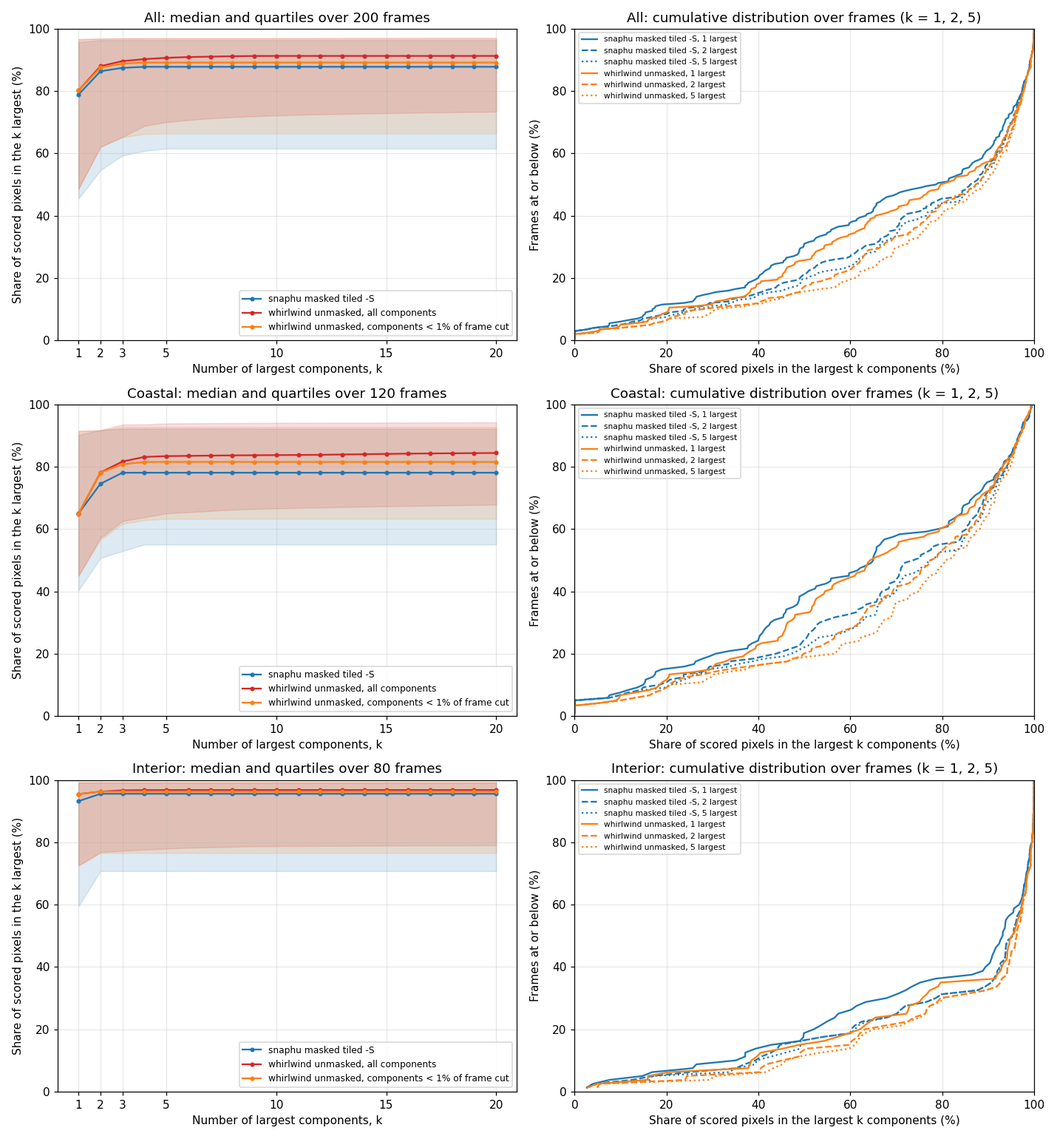
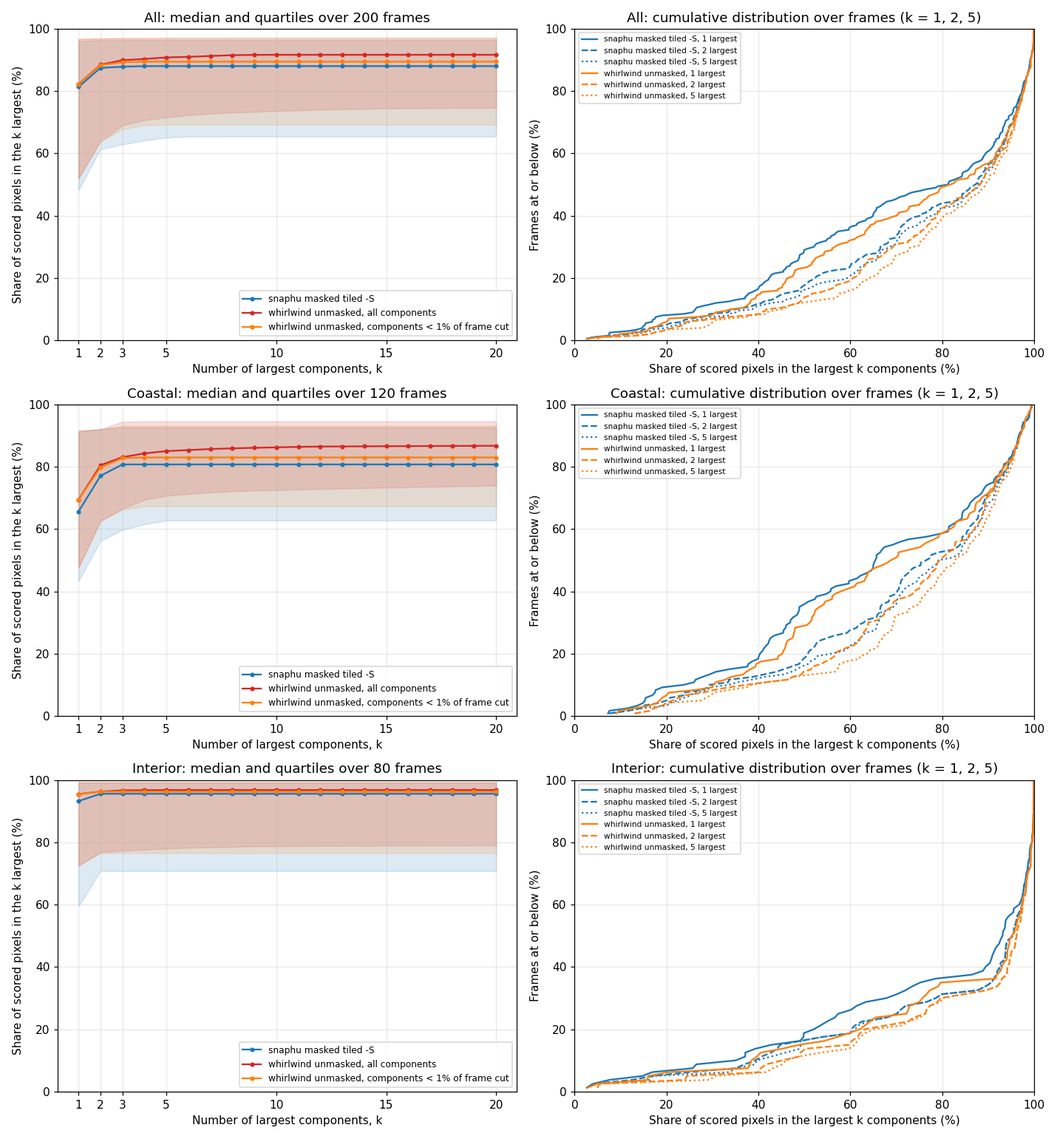
whirlwindUnwrapping: replacement frames (all 200 scored), 20-worst table, terms section, clarity fixes
Fixes the agreeing-pixel error share in Section 3.7 (0.32%, was misreported as 0.16%).

diff --git a/Documents/whirlwindUnwrapping.md b/Documents/whirlwindUnwrapping.md
@@ -1,7 +1,9 @@
 # Whirlwind as an alternative to snaphu: speed and accuracy on the 200-frame synthetic test
 
 **Status: draft, 2026-11-16.** Uses the same 200 synthetic Antarctica40 frames, inputs and scoring as
-[snaphuTilingMasking.md](snaphuTilingMasking.md) (Sections 2.4 and 3.5 there).
+[snaphuTilingMasking.md](snaphuTilingMasking.md) (Sections 2.4 and 3.5 there), with one change: 7 coastal frames
+that had no connected components in at least one snaphu run, so could not be scored, were replaced by 7 new
+coastal frames (`frames4.csv`). Every frame is now scored in every run.
 
 ## Summary
 
@@ -16,26 +18,27 @@ the same residue mask that snaphu `-S` uses. Unless stated otherwise, "whirlwind
 We compared it with snaphu in two configurations: masked tiled `-S`, which is the recommended configuration from the
 snaphu study, and unmasked untiled, which is used in production now.
 
-- **Speed.** Whirlwind takes 8.7 h of wall time in total, compared with 10.4 h for snaphu `-S` and 74.3 h for
-  untiled snaphu. It uses far less CPU: 9.8 h, compared with 31.3 h for `-S`. The median frame is a little slower
-  than `-S` (98 s against 77 s). Whirlwind is about twice as fast on interior frames but about half as fast on
+- **Speed.** Whirlwind takes 9.1 h of wall time in total, compared with 10.9 h for snaphu `-S` and 74.8 h for
+  untiled snaphu. It uses far less CPU: 10.2 h, compared with 32.3 h for `-S`. The median frame is a little slower
+  than `-S` (101 s against 80 s). Whirlwind is about twice as fast on interior frames but about half as fast on
   coastal ones.
 - **Accuracy.** Whirlwind is slightly less accurate than snaphu `-S` on the typical frame. The median share of
-  pixels with the wrong cycle count is 0.085%, against 0.057%. Its mean is lower (1.41% against 1.55%), but only
-  because of one frame where snaphu `-S` fails badly (Section 3.3).
-- **Connected components.** Whirlwind's own output has a median of 30 connected components per frame (maximum
-  254), and most of them are tiny. Each component is scored with its own offset, so this extra freedom flatters
-  the score. For a fair comparison, all whirlwind scores here first cut its components with snaphu's own rule,
+  pixels with the wrong cycle count is 0.086%, against 0.061%. Its mean is lower (1.39% against 1.59%), but only
+  because of one frame where snaphu `-S` fails badly (Sections 3.2 and 3.3).
+- **Connected components.** An unwrapper splits its output into connected components: regions it trusts to be
+  unwrapped consistently, each with an unknown offset relative to the others. Whirlwind's own output has a median
+  of 30 components per frame (maximum 239), and most of them are tiny. Each component is scored with its own
+  offset, so this extra freedom flatters the score. For a fair comparison, all whirlwind scores here first cut its components with snaphu's own rule,
   which keeps only components larger than 1% of the frame. After the cut, both unwrappers have a median of one
   component, and the area held by the largest components is nearly the same (Section 3.4).
-- **Masked whirlwind.** Masking makes whirlwind about 15% slower in total (10.0 h against 8.7 h), unlike snaphu,
-  which masking makes much faster. It makes whirlwind slightly more accurate: the median is 0.072% against
-  0.085%, and masking helps 15 frames and hurts 6. It is still less accurate than snaphu `-S` on the median
+- **Masked whirlwind.** Masking makes whirlwind about 15% slower in total (10.5 h against 9.1 h), unlike snaphu,
+  which masking makes much faster. It makes whirlwind slightly more accurate: the median is 0.081% against
+  0.086%, and masking helps 15 frames and hurts 6. It is still less accurate than snaphu `-S` on the median
   (Section 3.6).
 - **Settings.** No whirlwind option we tried (Goldstein filtering, interpolation, downsampling) fixes its worst
   frames (Section 3.5).
 - **Running both as a check.** The pixels where snaphu `-S` and whirlwind disagree are 1% of the data but hold
-  73% of snaphu's wrong pixels (99% on interior frames). The 22 frames with more than 1% disagreement hold 92% of
+  67% of snaphu's wrong pixels (99% on interior frames). The 24 frames with more than 1% disagreement hold 93% of
   snaphu's wrong pixels. The comparison flags errors but cannot say which unwrapper is right (Section 3.7).
 
 Whirlwind therefore does not replace snaphu `-S` for coastal frames. It is a fast option for interior frames,
@@ -43,11 +46,43 @@ where it is twice as fast and the accuracy difference is a few thousandths of a 
 
 ## 1. Method
 
+### 1.1 The test and its terms
+
+The test uses 200 Antarctic NISAR frames (from the Antarctica40 project) and, for each, a synthetic interferogram
+with a known answer. The truth is the phase predicted from an existing velocity map; noise is added that follows
+the frame's real coherence, at a level calibrated so that the synthetic interferogram is as hard to unwrap as the
+real one. The construction is described in Section 2.4 of [snaphuTilingMasking.md](snaphuTilingMasking.md).
+
+- **Frames.** A frame is named `t<track><A|D>_f<frame>_<second date>`, for example `t022A_f139_20261001` (track 22,
+  ascending, frame 139). **Coastal** frames (120) contain some floating ice or ocean; **interior** frames (80) are
+  entirely grounded ice. Coastal frames are much harder, because ocean and sea ice decorrelate.
+- **Cycle errors.** Unwrapping recovers the full phase from its value modulo 2π. A pixel is **wrong** if the
+  unwrapper has put it on the wrong 2π cycle. An error usually affects a whole region at once, so it costs many
+  pixels.
+- **Residues** are points where the wrapped phase around a 2 x 2 loop of pixels does not add up to zero. Noise
+  creates them, and the unwrapper must pair each with one of opposite sign (or with the frame edge), which is what
+  makes noisy frames slow and hard.
+- **Residue mask.** The mask from the snaphu study: 15 x 15 pixel blocks whose residue density exceeds 0.25 per
+  loop, removed before unwrapping and filled with a smooth phase. It removes mostly open ocean and sea ice.
+  `synth3/none` holds the unmasked inputs and `synth3/mask0.25` the masked ones.
+- **Tiling and `-S`.** snaphu can split a frame into tiles (here 4 x 4) unwrapped in parallel. With `-S` it then
+  re-optimizes the assembled result as a single tile, so that there are no errors along the tile seams. Untiled
+  snaphu runs on a single core.
+- **Connected components** are the regions an unwrapper trusts to be internally consistent. The offset between two
+  components is unknown, so scoring removes each component's own median offset. Pixels in no component are not
+  scored.
+- **Scored set** and **coverage.** The scored set is every pixel that the residue mask keeps and where the
+  truth is present; it is the same for every run, masked or not. Coverage is the share of the scored set that lies in a component.
+
+### 1.2 Runs
+
 | | snaphu untiled | snaphu `-S` | whirlwind |
 |---|---|---|---|
 | Input | unmasked (`synth3/none`) | residue mask 0.25 (`synth3/mask0.25`) | unmasked (`synth3/none`) and masked (`synth3/mask0.25`), two separate runs |
 | Configuration | `BASE_CONF`: SMOOTH, MCF, NCORRLOOKS 139 | 4 x 4 tiles, 200 px overlap, NPROC 16, `-S` | defaults, `--nlooks 139`, 16 rayon threads |
-| Host | petermann / ryder | petermann / ryder | helheim, 10 frames at a time |
+| Host | petermann / ryder | petermann / ryder | helheim, 8 to 10 frames at a time |
+
+### 1.3 Scoring and settings
 
 **Whirlwind options.** Every result except Section 3.5 uses whirlwind's defaults: no Goldstein filtering
 (`--goldstein-alpha` 0), no `--interpolate` and no `--downsample` (factor 1). The command for each run is saved in
@@ -55,37 +90,41 @@ where it is twice as fast and the accuracy difference is a few thousandths of a 
 
 **Scoring.** Scoring is the same as for snaphu (`synthTest.wrongCycles`). A pixel is wrong if its difference
 from the truth, after removing the median offset of its connected component, rounds to a nonzero number of
-cycles. Scoring covers the mask0.25 scored set (the residue mask, and only pixels where the truth is present).
-The same scored set is used for every run.
+cycles. "Wrong" percentages are the share of a frame's scored pixels in a component that are wrong; medians and
+means are then taken over frames.
 
 **Component cut.** Before scoring, whirlwind's components smaller than 1% of the whole frame (lines x samples,
-masked pixels included) are set to 0. This is snaphu's `MINCONNCOMPFRAC 0.01` rule.
+masked pixels included) are removed, so their pixels are not scored. snaphu applies this rule to its own output
+(`MINCONNCOMPFRAC 0.01`); without the cut, whirlwind's many tiny components would each get their own offset and
+flatter its score.
 
-**Worse and better.** A frame counts as substantially worse or better (`synthSummary.worse` / `better`) when the
-error at least doubles or changes by more than 0.5 percentage points. Changes smaller than 0.01 points are
-ignored.
+**Worse and better.** Whirlwind counts as substantially worse on a frame (`synthSummary.worse`) when its error is
+more than double snaphu's or more than 0.5 percentage points higher, and also at least 0.01 points higher, so
+0.000% against 0.001% is not counted. Substantially better is the same rule the other way round.
 
 **Timing caveat.** The snaphu runs were timed on petermann and ryder in the snaphu study. Whirlwind was timed on
-helheim (96 cores) with 10 frames running at once. Whirlwind's median 1-minute load average during a run was 12,
+helheim (96 cores) with 8 to 10 frames running at once. Whirlwind's median 1-minute load average during a run was 12,
 and its peak memory use was 1.1 GB median and 1.8 GB maximum.
 
 ## 2. Speed
 
+Wall time is the elapsed time per frame; CPU time adds up the time of all threads.
+
 | | snaphu untiled | snaphu `-S` (masked) | whirlwind unmasked | whirlwind masked |
 |---|---|---|---|---|
-| Median wall, all | 636 s | 77 s | 98 s | 96 s |
-| Median wall, coastal (120) | 936 s | 98 s | 182 s | 193 s |
+| Median wall, all | 647 s | 80 s | 101 s | 102 s |
+| Median wall, coastal (120) | 955 s | 104 s | 203 s | 230 s |
 | Median wall, interior (80) | 478 s | 53 s | 27 s | 31 s |
-| Total wall, all | 74.3 h | 10.4 h | 8.7 h | 10.0 h |
-| Total CPU, all | 74.3 h | 31.3 h | 9.8 h | 11.1 h |
+| Total wall, all | 74.8 h | 10.9 h | 9.1 h | 10.5 h |
+| Total CPU, all | 74.7 h | 32.3 h | 10.2 h | 11.5 h |
 
 | Whirlwind speedup | vs untiled, median | vs untiled, total | vs `-S`, median | vs `-S`, total |
 |---|---|---|---|---|
-| unmasked, all | 8.7x | 8.5x | 0.9x | 1.2x |
-| unmasked, coastal | 5.5x | 6.0x | 0.6x | 0.7x |
+| unmasked, all | 8.5x | 8.2x | 0.9x | 1.2x |
+| unmasked, coastal | 5.3x | 5.8x | 0.5x | 0.7x |
 | unmasked, interior | 16.3x | 24.2x | 2.0x | 4.5x |
-| masked, all | 8.0x | 7.4x | 0.8x | 1.0x |
-| masked, coastal | 5.4x | 5.2x | 0.5x | 0.6x |
+| masked, all | 7.5x | 7.1x | 0.8x | 1.0x |
+| masked, coastal | 5.1x | 5.0x | 0.5x | 0.6x |
 | masked, interior | 15.8x | 22.3x | 2.0x | 4.1x |
 
 Whirlwind's threads help little: CPU time is only 1.1 times wall time. Unlike snaphu, whirlwind does not get
@@ -95,49 +134,67 @@ faster when the residue-dense areas are masked.
 
 ### 3.1 Summary
 
-Statistics cover the 193 frames where all four runs have at least one component.
+Statistics cover all 200 frames; every run has at least one component on every frame.
 
 | | snaphu untiled | snaphu `-S` (masked) | whirlwind unmasked | whirlwind masked |
 |---|---|---|---|---|
-| Wrong, median, all | 0.059% | 0.057% | 0.085% | 0.072% |
-| Wrong, median, coastal | 0.232% | 0.228% | 0.229% | 0.221% |
+| Wrong, median, all | 0.062% | 0.061% | 0.086% | 0.081% |
+| Wrong, median, coastal | 0.248% | 0.233% | 0.237% | 0.223% |
 | Wrong, median, interior | 0.001% | 0.000% | 0.006% | 0.008% |
-| Wrong, mean, all | 1.64% | 1.55% | 1.41% | 1.26% |
-| Coverage, median, all | 87.2% | 87.8% | 89.2% | 89.5% |
-| Coverage, median, coastal | 78.0% | 78.1% | 81.5% | 82.5% |
+| Wrong, mean, all | 1.68% | 1.59% | 1.39% | 1.24% |
+| Coverage, median, all | 87.6% | 88.0% | 89.4% | 90.0% |
+| Coverage, median, coastal | 80.7% | 80.7% | 83.0% | 83.8% |
+| Whirlwind unmasked substantially worse / better | 50 / 25 | 51 / 23 | | |
+| Whirlwind masked substantially worse / better | 52 / 25 | 52 / 25 | | |
 | Components after the 1% cut, median (max) | | 1 (6) | 1 (7) | 1 (7) |
-| Whirlwind unmasked substantially worse / better | 49 / 22 | 50 / 20 | | |
-| Whirlwind masked substantially worse / better | 51 / 22 | 51 / 22 | | |
+
+The worse / better rows count frames where whirlwind is substantially worse or better than the run at the top of
+the column. On the median frame, whirlwind is slightly less accurate than either snaphu run. On coastal frames the
+medians are nearly equal, and whirlwind covers more of the scored set.
 
 ### 3.2 Why whirlwind is worse more often but has the lower mean
 
-Compared with snaphu `-S`, whirlwind is substantially worse on 50 frames and substantially better on 20 (194
-frames where both runs are scored). Its mean error is nevertheless 0.13 percentage points lower. The two
+Compared with snaphu `-S`, whirlwind is substantially worse on 51 frames and substantially better on 23 (of 200).
+Its mean error is nevertheless 0.20 percentage points lower. The two
 statistics measure different things:
 
-- **The worse/better rule is relative.** Many of the frames counted as worse are worse by tiny amounts. Of the 50
-  worse frames, 20 are worse by less than 0.05 points and 35 by less than 0.5 points; the median is +0.075 points
+- **The worse/better rule is relative.** Many of the frames counted as worse are worse by tiny amounts. Of the 51
+  worse frames, 21 are worse by less than 0.05 points and 36 by less than 0.5 points; the median is +0.073 points
   and the total is +64.9 points.
-- **The better frames are better by more.** The 20 better frames gain a median of 0.49 points each, −88.9 points in
+- **The better frames are better by more.** The 23 better frames gain a median of 1.41 points each, −103.5 points in
   total.
 - **One frame dominates the mean.** On `t022A_f139` snaphu `-S` has 59.1% of pixels wrong and whirlwind 7.8%
-  (Figure 1). That single frame lowers whirlwind's mean by 0.26 points. Without it, whirlwind's mean is 0.13 points
+  (Figure 1). That single frame lowers whirlwind's mean by 0.26 points. Without it, whirlwind's mean is 0.05 points
   *worse* than snaphu `-S`.
 
 The median is therefore the fairer summary, and on the median whirlwind is slightly worse.
 
-These are the frames with the largest differences:
+These are the 20 frames with the largest error for either unwrapper, ranked by the larger of the two. The worse
+of the two is in bold. Snaphu `-S` is worse on 10 of them and whirlwind on 10. Several of the worst frames defeat
+both unwrappers: on `t166A_f139` (both dates), `t104A_f142` and `t058D_f126` both are more than 15% wrong.
 
-| Frame | Class | snaphu `-S` | whirlwind | Difference (points) | Components, `-S` / whirlwind |
+| Frame | Class | Wrong, snaphu `-S` | Wrong, whirlwind | Components, `-S` / whirlwind | Coverage, `-S` / whirlwind |
 |---|---|---|---|---|---|
-| `t022A_f139_20261001` | coastal | 59.12% | 7.77% | −51.34 | 1 / 1 |
-| `t166A_f135_20260824` | interior | 12.50% | 0.02% | −12.48 | 3 / 1 |
-| `t059D_f122_20261004` | coastal | 13.67% | 4.28% | −9.39 | 3 / 4 |
-| `t057D_f127_20260724` | coastal | 3.18% | 0.48% | −2.69 | 1 / 1 |
-| `t138A_f141_20260810` | coastal | 2.34% | 8.44% | +6.10 | 4 / 5 |
-| `t060A_f139_20260817` | coastal | 7.39% | 17.18% | +9.79 | 1 / 2 |
-| `t104A_f142_20260925` | coastal | 22.49% | 32.82% | +10.33 | 3 / 6 |
-| `t010D_f124_20260918` | coastal | 2.36% | 19.23% | +16.87 | 2 / 2 |
+| `t166A_f139_20260719` | coastal | **63.76%** | 63.51% | 3 / 3 | 96.3% / 95.6% |
+| `t022A_f139_20261001` | coastal | **59.12%** | 7.77% | 1 / 1 | 96.7% / 92.2% |
+| `t104A_f142_20260925` | coastal | 22.49% | **32.82%** | 3 / 6 | 74.9% / 78.0% |
+| `t166A_f139_20260917` | coastal | 30.09% | **30.83%** | 2 / 3 | 94.1% / 94.8% |
+| `t058D_f126_20260922` | coastal | 16.65% | **19.47%** | 3 / 3 | 84.1% / 83.1% |
+| `t010D_f124_20260918` | coastal | 2.36% | **19.23%** | 2 / 2 | 89.4% / 89.0% |
+| `t060A_f139_20260817` | coastal | 7.39% | **17.18%** | 1 / 2 | 86.1% / 85.9% |
+| `t059D_f122_20261004` | coastal | **13.67%** | 4.28% | 3 / 4 | 79.2% / 80.0% |
+| `t125D_f124_20260902` | coastal | **12.77%** | 2.62% | 2 / 3 | 82.3% / 84.4% |
+| `t166A_f135_20260824` | interior | **12.50%** | 0.02% | 3 / 1 | 93.2% / 94.6% |
+| `t138A_f141_20260810` | coastal | 2.34% | **8.44%** | 4 / 5 | 35.5% / 38.5% |
+| `t151A_f138_20260904` | interior | **5.89%** | 3.48% | 2 / 2 | 97.4% / 96.3% |
+| `t065A_f139_20260817` | coastal | **5.51%** | 4.10% | 3 / 3 | 91.6% / 90.2% |
+| `t030D_f122_20260722` | coastal | 1.64% | **5.42%** | 2 / 4 | 20.0% / 29.7% |
+| `t087D_f125_20260924` | coastal | 1.61% | **4.50%** | 1 / 1 | 83.3% / 85.5% |
+| `t123A_f138_20260914` | coastal | **4.25%** | 4.01% | 1 / 1 | 95.3% / 95.7% |
+| `t111A_f144_20260913` | coastal | **4.13%** | 2.47% | 5 / 4 | 58.4% / 62.1% |
+| `t059D_f122_20261016` | coastal | 1.01% | **3.65%** | 4 / 4 | 76.7% / 78.8% |
+| `t057D_f127_20260922` | coastal | **3.48%** | 0.90% | 1 / 1 | 93.4% / 95.3% |
+| `t102D_f122_20260727` | coastal | 1.05% | **3.45%** | 2 / 2 | 61.7% / 66.1% |
 
 ### 3.3 Examples
 
@@ -195,22 +252,22 @@ distribution over frames of the share held by the largest one, two and five comp
 
 | Set | Run | Largest, median | 2 largest | 3 largest | 5 largest | 10 largest | Frames where the largest holds < 50% |
 |---|---|---|---|---|---|---|---|
-| all | snaphu masked tiled `-S` | 78.9% | 86.4% | 87.5% | 87.8% | 87.8% | 62 of 200 |
-| all | whirlwind, all components | 80.2% | 88.0% | 89.6% | 90.7% | 91.3% | 51 of 200 |
-| all | whirlwind, < 1% cut | 80.2% | 87.6% | 88.8% | 89.2% | 89.2% | 51 of 200 |
-| coastal | snaphu masked tiled `-S` | 65.0% | 74.5% | 78.1% | 78.1% | 78.1% | 47 of 120 |
-| coastal | whirlwind, all components | 64.9% | 78.2% | 81.7% | 83.4% | 83.7% | 39 of 120 |
-| coastal | whirlwind, < 1% cut | 64.9% | 78.2% | 80.7% | 81.5% | 81.5% | 39 of 120 |
+| all | snaphu masked tiled `-S` | 81.3% | 87.5% | 87.8% | 88.0% | 88.0% | 58 of 200 |
+| all | whirlwind, all components | 82.2% | 88.5% | 89.9% | 90.8% | 91.6% | 46 of 200 |
+| all | whirlwind, after the 1% cut | 82.2% | 88.3% | 89.3% | 89.4% | 89.4% | 46 of 200 |
+| coastal | snaphu masked tiled `-S` | 65.6% | 77.1% | 80.7% | 80.7% | 80.7% | 43 of 120 |
+| coastal | whirlwind, all components | 69.4% | 80.5% | 83.1% | 85.0% | 86.2% | 34 of 120 |
+| coastal | whirlwind, after the 1% cut | 69.4% | 79.8% | 82.7% | 83.0% | 83.0% | 34 of 120 |
 | interior | snaphu masked tiled `-S` | 93.2% | 95.6% | 95.6% | 95.6% | 95.6% | 15 of 80 |
 | interior | whirlwind, all components | 95.5% | 96.3% | 96.7% | 96.8% | 96.8% | 12 of 80 |
-| interior | whirlwind, < 1% cut | 95.5% | 96.3% | 96.3% | 96.3% | 96.3% | 12 of 80 |
+| interior | whirlwind, after the 1% cut | 95.5% | 96.3% | 96.3% | 96.3% | 96.3% | 12 of 80 |
 
-- **Coastal frames.** The median frame has about two thirds of its data in the largest component for both
-  unwrappers. Whirlwind's second and third components hold more than snaphu's, so after the cut it covers
-  81.5% of the scored set against 78.1%. This is the coverage gain in Section 3.1.
+- **Coastal frames.** The median frame has about two thirds of its data in the largest component (66% for snaphu,
+  69% for whirlwind). Whirlwind's second and third components also hold more than snaphu's, so after the cut it
+  covers 83.0% of the scored set against 80.7%. This is the coverage gain in Section 3.1.
 - **Interior frames.** The median frame has one dominant component holding 93% to 96% of the data. On 32 of the
   80 interior frames for snaphu and 28 for whirlwind, the largest component holds less than 90%.
-- **The cut.** The small components that the cut removes hold only about 2% of the scored pixels on coastal frames
+- **The cut.** The small components that the cut removes hold only about 3% of the scored pixels on coastal frames
   and 0.5% on interior frames. After the cut, the two unwrappers have almost the same number of degrees of freedom:
   whirlwind's accuracy is not bought with more components.
 
@@ -229,7 +286,8 @@ We reran four of the worst whirlwind frames with the options that change the sol
 - both of these together
 - `--downsample 2`
 
-Each run was scored on snaphu `-S`'s components, so that every run has the same pixels and degrees of freedom.
+Each run was scored on snaphu `-S`'s components rather than its own, so that every run has the same pixels and
+degrees of freedom. The Default column therefore differs from whirlwind's numbers elsewhere in this document.
 
 | Frame | Default | Goldstein 0.7 | Interpolate | Goldstein + interpolate | Downsample 2 |
 |---|---|---|---|---|---|
@@ -247,17 +305,17 @@ None of the options is a general improvement over the defaults.
 ### 3.6 Masked whirlwind
 
 Whirlwind run on the masked input (the residue mask that snaphu `-S` uses) is scored the same way, after the 1%
-component cut. Before the cut it has a median of 32 components (54 on coastal frames, maximum 392); after the cut,
+component cut. Before the cut it has a median of 31 components (52 on coastal frames, maximum 392); after the cut,
 a median of one.
 
-- **Speed.** Masking makes whirlwind slower: 10.0 h against 8.7 h in total, and 193 s against 182 s for the median
+- **Speed.** Masking makes whirlwind slower: 10.5 h against 9.1 h in total, and 230 s against 203 s for the median
   coastal frame. Masking makes snaphu tiled unwrapping much faster, but it does not help whirlwind.
-- **Accuracy.** Masking makes whirlwind slightly more accurate. The median is 0.072% against 0.085% unmasked and
-  the mean is 1.26% against 1.41%. Compared frame by frame with unmasked whirlwind, masking makes 15 frames
-  substantially better and 6 worse (194 frames). The largest gains are on `t104A_f142` (32.8% to 23.5%), `t060A_f139` (17.2% to 8.7%) and `t151A_f138`
-  (3.48% to 0.02%). The largest loss is on `t144A_f143` (0.23% to 2.04%).
-- **Against snaphu `-S`.** Masked whirlwind is still slightly worse on the median (0.072% against 0.057%), and it
-  is substantially worse on 51 frames and better on 22. Its worst frames are the same as unmasked whirlwind's:
+- **Accuracy.** Masking makes whirlwind slightly more accurate. The median is 0.081% against 0.086% unmasked and
+  the mean is 1.24% against 1.39%. Compared frame by frame with unmasked whirlwind, masking makes 15 frames
+  substantially better and 6 worse (of 200). The largest gains are on `t104A_f142` (32.8% to 23.5%),
+  `t060A_f139` (17.2% to 8.7%) and `t151A_f138` (3.48% to 0.02%). The largest loss is on `t144A_f143` (0.23% to 2.04%).
+- **Against snaphu `-S`.** Masked whirlwind is still slightly worse on the median (0.081% against 0.061%), and it
+  is substantially worse on 52 frames and better on 25. Its worst frames are the same as unmasked whirlwind's:
   `t010D_f124` has 19.01% wrong (19.23% unmasked).
 
 ### 3.7 Running both unwrappers as a check
@@ -271,41 +329,46 @@ elsewhere. Percentages are over the pixels in a component of both, so they diffe
 
 | Set | Frames | Disagree, median / mean | Wrong, snaphu `-S`, median / mean | Wrong, whirlwind, median / mean | Snaphu wrong pixels that disagree | Whirlwind wrong pixels that disagree | Snaphu wrong on agreeing pixels, median / mean | Frames with > 1% disagreement |
 |---|---|---|---|---|---|---|---|---|
-| all | 194 | 0.018% / 1.35% | 0.029% / 1.40% | 0.035% / 1.31% | 73% | 72% | 0.012% / 0.52% | 22 |
-| coastal | 114 | 0.047% / 2.09% | 0.130% / 2.21% | 0.158% / 2.19% | 67% | 71% | 0.083% / 0.88% | 20 |
+| all | 200 | 0.018% / 1.33% | 0.030% / 1.43% | 0.037% / 1.29% | 67% | 73% | 0.013% / 0.56% | 24 |
+| coastal | 120 | 0.048% / 2.02% | 0.139% / 2.22% | 0.158% / 2.11% | 61% | 72% | 0.084% / 0.94% | 22 |
 | interior | 80 | 0.000% / 0.28% | 0.000% / 0.24% | 0.000% / 0.06% | 99% | 96% | 0.000% / 0.01% | 2 |
 
-- **As a pixel mask.** Over all pixels, 1.0% disagree. Dropping them removes 73% of snaphu's wrong pixels, and the
-  share of wrong pixels falls from 0.91% to 0.16% of the remaining pixels. On interior frames almost nothing
+- **As a pixel mask.** Over all pixels, 1.0% disagree. Dropping them removes 67% of snaphu's wrong pixels, and
+  snaphu's share of wrong pixels falls from 0.98% to 0.32% of the remaining pixels. On interior frames almost nothing
   disagrees, but 99% of snaphu's few errors are in the pixels that do.
-- **As a frame flag.** The 22 frames with more than 1% disagreement hold 92% of snaphu's wrong pixels. Of the 20
-  frames where snaphu is more than 1% wrong, 18 are flagged.
+- **As a frame flag.** The 24 frames with more than 1% disagreement hold 93% of snaphu's wrong pixels. Of the 22
+  frames where snaphu is more than 1% wrong, 20 are flagged.
 - **Which one is right.** Where the solutions disagree, the comparison cannot say which unwrapper is right; it
   can only flag or drop the pixels.
 - **Shared errors.** Errors both unwrappers make the same way are not flagged. On `t166A_f139_20260719` both are
   63% wrong and only 44% of snaphu's wrong pixels disagree. On `t059D_f122_20261004` snaphu is 13% wrong but only
-  10% of its wrong pixels disagree. Overall, 27% of snaphu's wrong pixels are not flagged.
-- **Masked whirlwind** flags snaphu's errors equally well (73%) but is slower. Unmasked whirlwind is the better
+  10% of its wrong pixels disagree, and on `t125D_f124_20260902` snaphu is 12% wrong but only 11% disagree. Overall,
+  33% of snaphu's wrong pixels are not flagged.
+- **Masked whirlwind** flags snaphu's errors equally well (67%) but is slower. Unmasked whirlwind is the better
   partner.
-- **Cost.** Whirlwind adds about 10 h of CPU per 200 frames to snaphu `-S`'s 31 h, about a third more. Both could
-  run on the same frame at the same time.
+- **Cost.** Whirlwind adds about 10 h of CPU per 200 frames to snaphu `-S`'s 32 h, about a third more. Run in
+  parallel on the same machine, a frame finishes when the slower of the two does. Compared with snaphu `-S` alone,
+  that adds little on interior frames (median 53 s to 57 s) but roughly doubles the time on coastal frames (104 s to
+  213 s), because whirlwind is the slower of the two there (203 s alone). For all 200 frames the total wall time
+  rises from 10.9 h to 15.2 h, still a fifth of untiled snaphu's 74.8 h.
 
 ## 4. Conclusions
 
 - Whirlwind run on unmasked input is about as fast overall as snaphu masked tiled `-S`, and it uses a third of the
   CPU. It is twice as fast on interior frames and half as fast on coastal frames.
-- On the typical frame whirlwind is slightly less accurate than snaphu `-S` (median 0.085% against 0.057% wrong),
-  and it is substantially worse on 50 frames against 20 better. Its lower mean comes from one frame where snaphu
+- On the typical frame whirlwind is slightly less accurate than snaphu `-S` (median 0.086% against 0.061% wrong),
+  and it is substantially worse on 51 frames against 23 better. Its lower mean comes from one frame where snaphu
   `-S` fails.
-- Masking the input makes whirlwind about 15% slower and slightly more accurate (median 0.072% against 0.085%),
+- Masking the input makes whirlwind about 15% slower and slightly more accurate (median 0.081% against 0.086%),
   but still not as accurate as snaphu `-S`.
 - Whirlwind's default connected components are far too many to use as they are (median 30). Applying snaphu's 1%
   rule gives component counts and areas that match snaphu's.
 - Snaphu `-S` remains the better choice for production, particularly on coastal frames. If whirlwind is used, it
   should be used on interior frames, with its components cut by the 1% rule.
 - Running whirlwind alongside snaphu `-S` is a useful, cheap check. The pixels where they disagree are 1% of the
-  data and hold 73% of snaphu's wrong pixels, and frames with more than 1% disagreement hold 92% of them. The
-  disagreement can be used to flag frames or mask pixels, but not to choose between the two solutions.
+  data and hold 67% of snaphu's wrong pixels, and frames with more than 1% disagreement hold 93% of them. The
+  disagreement can be used to flag frames or mask pixels, but not to choose between the two solutions. Run in
+  parallel, the pair takes about 40% more wall time than snaphu `-S` alone, almost all of it on coastal frames.
 
 ## Appendix: files
 
@@ -317,6 +380,7 @@ All files are in `/Volumes/insar4/ian/Data/NISAR/Antarctica/unwrapTest40/diagOce
 | `dropSmall.py frac0.01` | rescoring after the 1% component cut; `dropSmallfrac0.01/<key>.json`, per-frame table in `dropSmallfrac0.01.md` |
 | `timeAccuracy.py` | the speed and accuracy tables in Sections 2 and 3.1 (`timeAccuracy.md`) |
 | `compArea.py` | component-area distribution (`compArea.png`, `compArea.md`, `compArea/<key>.json`) |
+| `worstFrames.py [N]` | the 20 worst frames in Section 3.2 (`worstFrames.md`) |
 | `exampleFrames.py <key> <png>` | the example figures (`examples/`) |
 | `flagTest.py` | whirlwind option tests (`flagTest/`, `flagTest.out`) |
 | `compareBoth.py [wU\|wM]` | the agreement check in Section 3.7 (`compareBoth<run>/<key>.json`, `compareBoth<run>.md`) |
